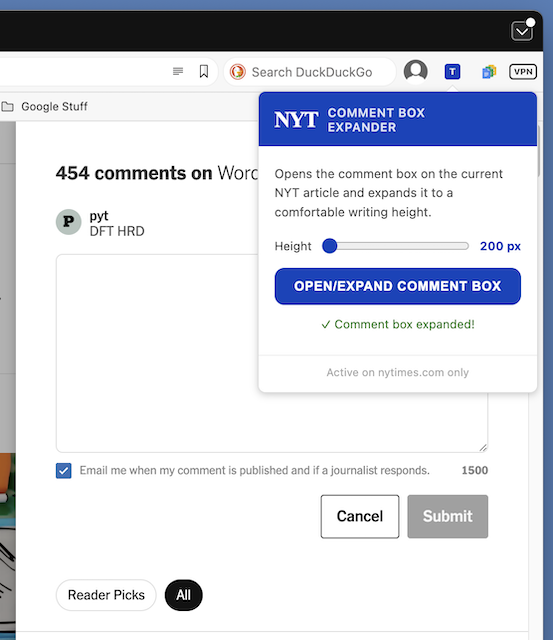
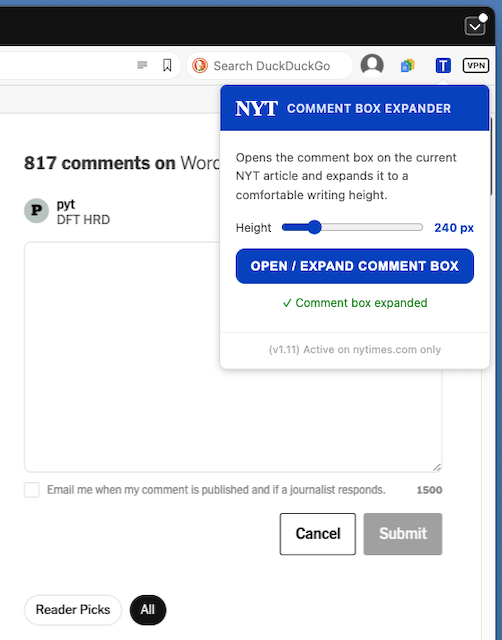
Improvements

Changed region(s): [[0.0, 0.0, 1.0, 1.0], [0.0896, 0.7188, 0.8964, 0.875], [0.0598, 0.9062, 0.3884, 1.0]]

diff --git a/nyt_commentbox_szr_extension/content.js b/nyt_commentbox_szr_extension/content.js
@@ -1,5 +1,5 @@
 /**
- * NYT New Comment Expander — content script (top frame only)
+ * NYT Comment Expander — content script (top frame only)
  *
  * The comment input is a <textarea> inside #commentsContainer.
  * Before the user clicks into it, only a placeholder element exists.
@@ -46,7 +46,7 @@ function findPlaceholder() {
 }
 
 /* ------------------------------------------------------------------ */
-/* Height enforcement                                                 */
+/* Height enforcement                                                   */
 /* ------------------------------------------------------------------ */
 
 function applyHeight(el, px) {
@@ -111,7 +111,7 @@ function triggerReactClick(el) {
 }
 
 /* ------------------------------------------------------------------ */
-/* Simulate a click via multiple strategies, most-reliable first      */
+/* Simulate a click via multiple strategies, most-reliable first       */
 /* ------------------------------------------------------------------ */
 
 function simulateClick(el) {
@@ -145,7 +145,36 @@ function simulateClick(el) {
 }
 
 /* ------------------------------------------------------------------ */
-/* Main                                                               */
+/* Uncheck the email-notification checkbox                             */
+/* id="notifyOnApproval", checked by default, lives outside           */
+/* #commentsContainer — poll briefly since it appears after textarea  */
+/* ------------------------------------------------------------------ */
+
+function uncheckEmailNotification() {
+  let tries = 0;
+  const timer = setInterval(() => {
+    tries++;
+    const cb = document.getElementById('notifyOnApproval');
+    if (cb) {
+      clearInterval(timer);
+
+      // Wait 100 ms for React to finish its initial render of the
+      // checkbox, then fire a single native click to uncheck it.
+      setTimeout(() => {
+        if (!cb.checked) return;
+        cb.click();
+      }, 100);
+
+    } else if (tries >= 20) {
+      clearInterval(timer);
+    }
+  }, 100);
+}
+
+
+
+/* ------------------------------------------------------------------ */
+/* Main                                                                 */
 /* ------------------------------------------------------------------ */
 
 function expandCommentBox(px, sendResponse) {
@@ -156,6 +185,7 @@ function expandCommentBox(px, sendResponse) {
     applyHeight(existing, px);
     watchHeight(existing, px);
     existing.scrollIntoView({ behavior: 'smooth', block: 'center' });
+    uncheckEmailNotification();
     sendResponse({ success: true });
     return;
   }
@@ -185,6 +215,7 @@ function expandCommentBox(px, sendResponse) {
       applyHeight(ta, px);
       watchHeight(ta, px);
       ta.scrollIntoView({ behavior: 'smooth', block: 'center' });
+      uncheckEmailNotification();
       sendResponse({ success: true });
     } else if (tries >= 30) {
       clearInterval(timer);
@@ -197,7 +228,7 @@ function expandCommentBox(px, sendResponse) {
 }
 
 /* ------------------------------------------------------------------ */
-/* Message listener                                                   */
+/* Message listener                                                     */
 /* ------------------------------------------------------------------ */
 
 chrome.runtime.onMessage.addListener((msg, _sender, sendResponse) => {

diff --git a/nyt_commentbox_szr_extension/popup.html b/nyt_commentbox_szr_extension/popup.html
@@ -116,7 +116,7 @@
 
 <header>
   <span class="logo">NYT</span>
-  <h1>Comment Box<br>Expander</h1>
+  <h1>Comment Box Expander</h1>
 </header>
 
 <div class="body">
@@ -131,11 +131,11 @@
   <span class="val" id="heightVal">400 px</span>
 </div>
 
-  <button class="btn-primary" id="expandBtn">Open/Expand Comment Box</button>
+  <button class="btn-primary" id="expandBtn">Open / Expand Comment Box</button>
   <div id="status"></div>
 </div>
 
-<footer>Active on nytimes.com only</footer>
+<footer>(v1.11) Active on nytimes.com only</footer>
 
 <script src="popup.js"></script>
 </body>

diff --git a/nyt_commentbox_szr_extension/popup.js b/nyt_commentbox_szr_extension/popup.js
@@ -44,7 +44,7 @@ async function run(height) {
     }
     if (response && response.success) {
       statusElem.className = 'success';
-      statusElem.textContent = '✓ Comment box expanded!';
+      statusElem.textContent = '✓ Comment box expanded';
     } else {
       statusElem.className = 'error';
       statusElem.textContent = (response && response.error) || '⚠ Could not find the comment box.';

diff --git a/README.md b/README.md
@@ -3,6 +3,7 @@
 # nyt-commentbox-szr
 
 * A Chrome browser extension that opens and automatically expands the New York Times new comments entry box to a convenient size. This extension should work in any browser that supports Chrome browser extensions.
+* This extension also unchecks the email checkbox.
 * Apple's Safari and possibly other browsers do not support Chrome browser extensions.
 
 ### In Use
